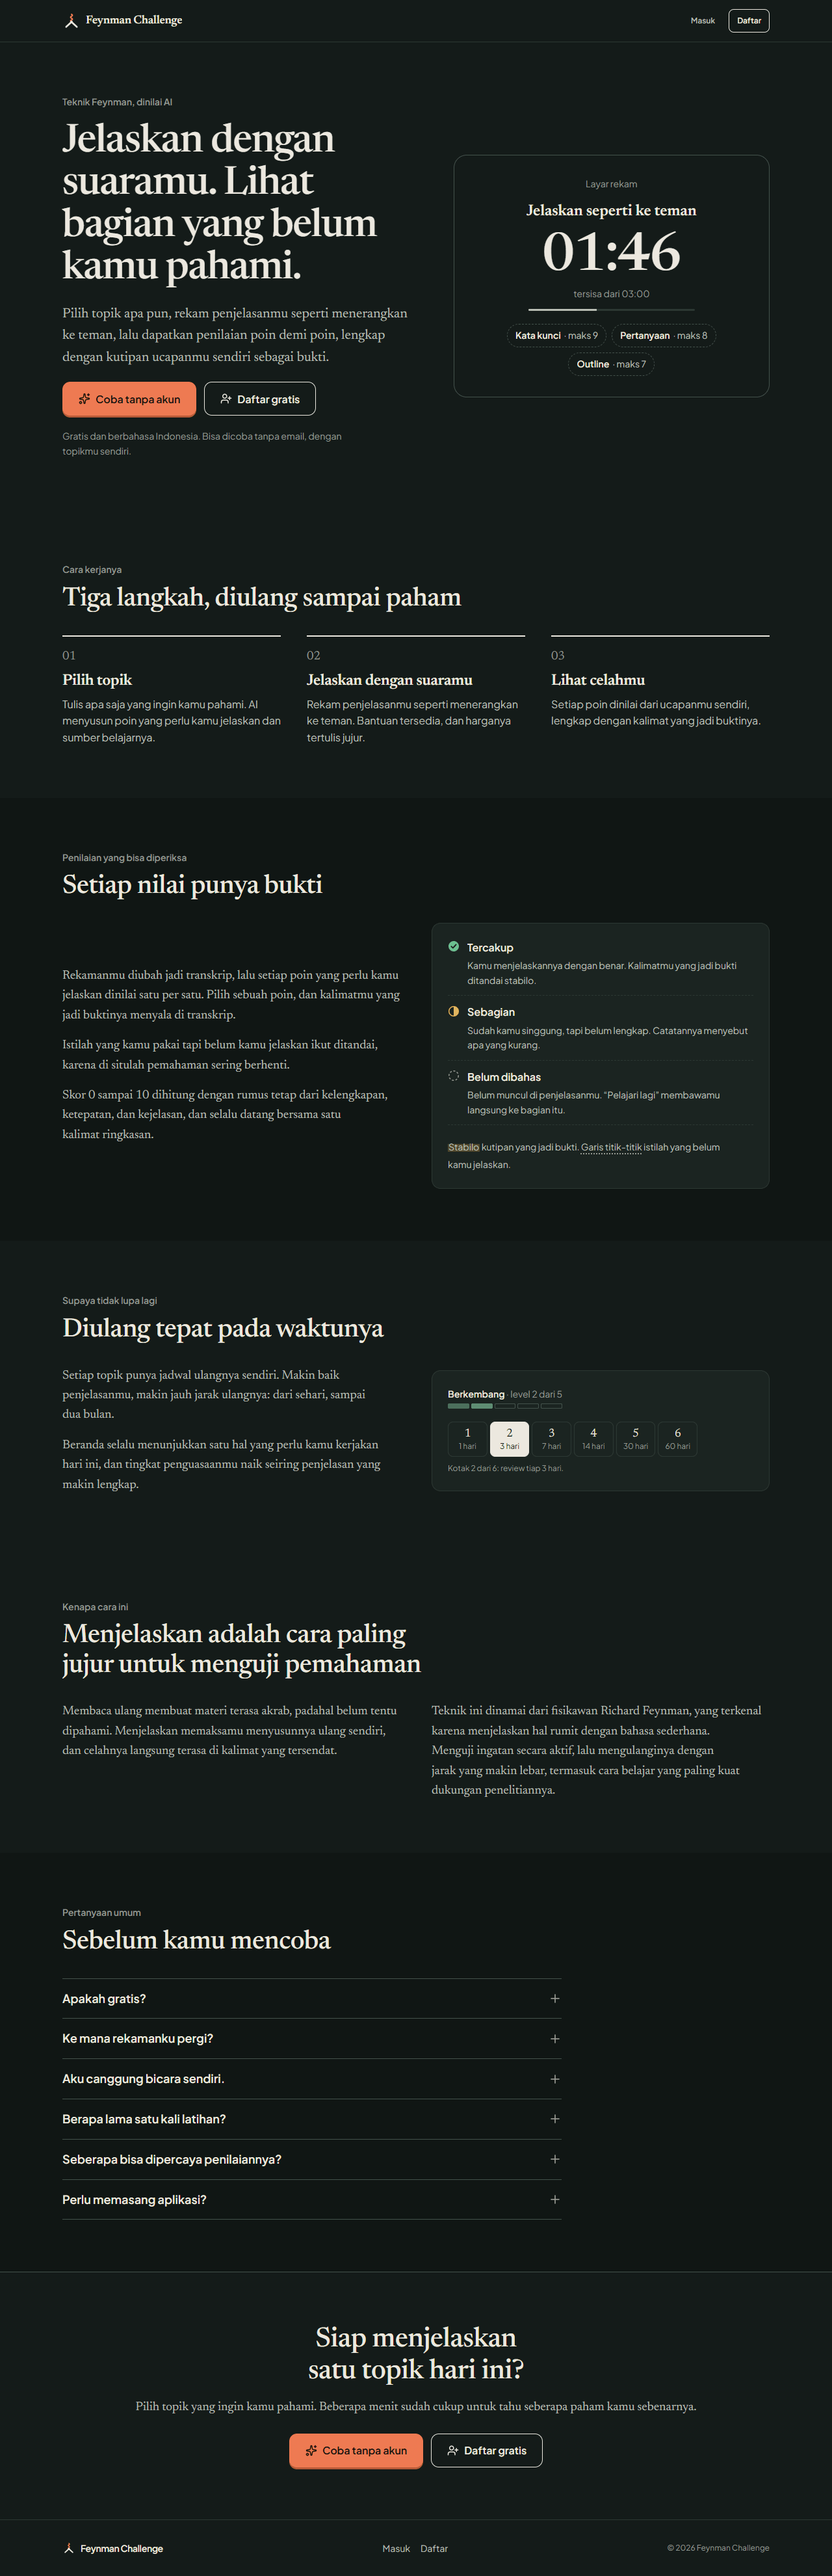
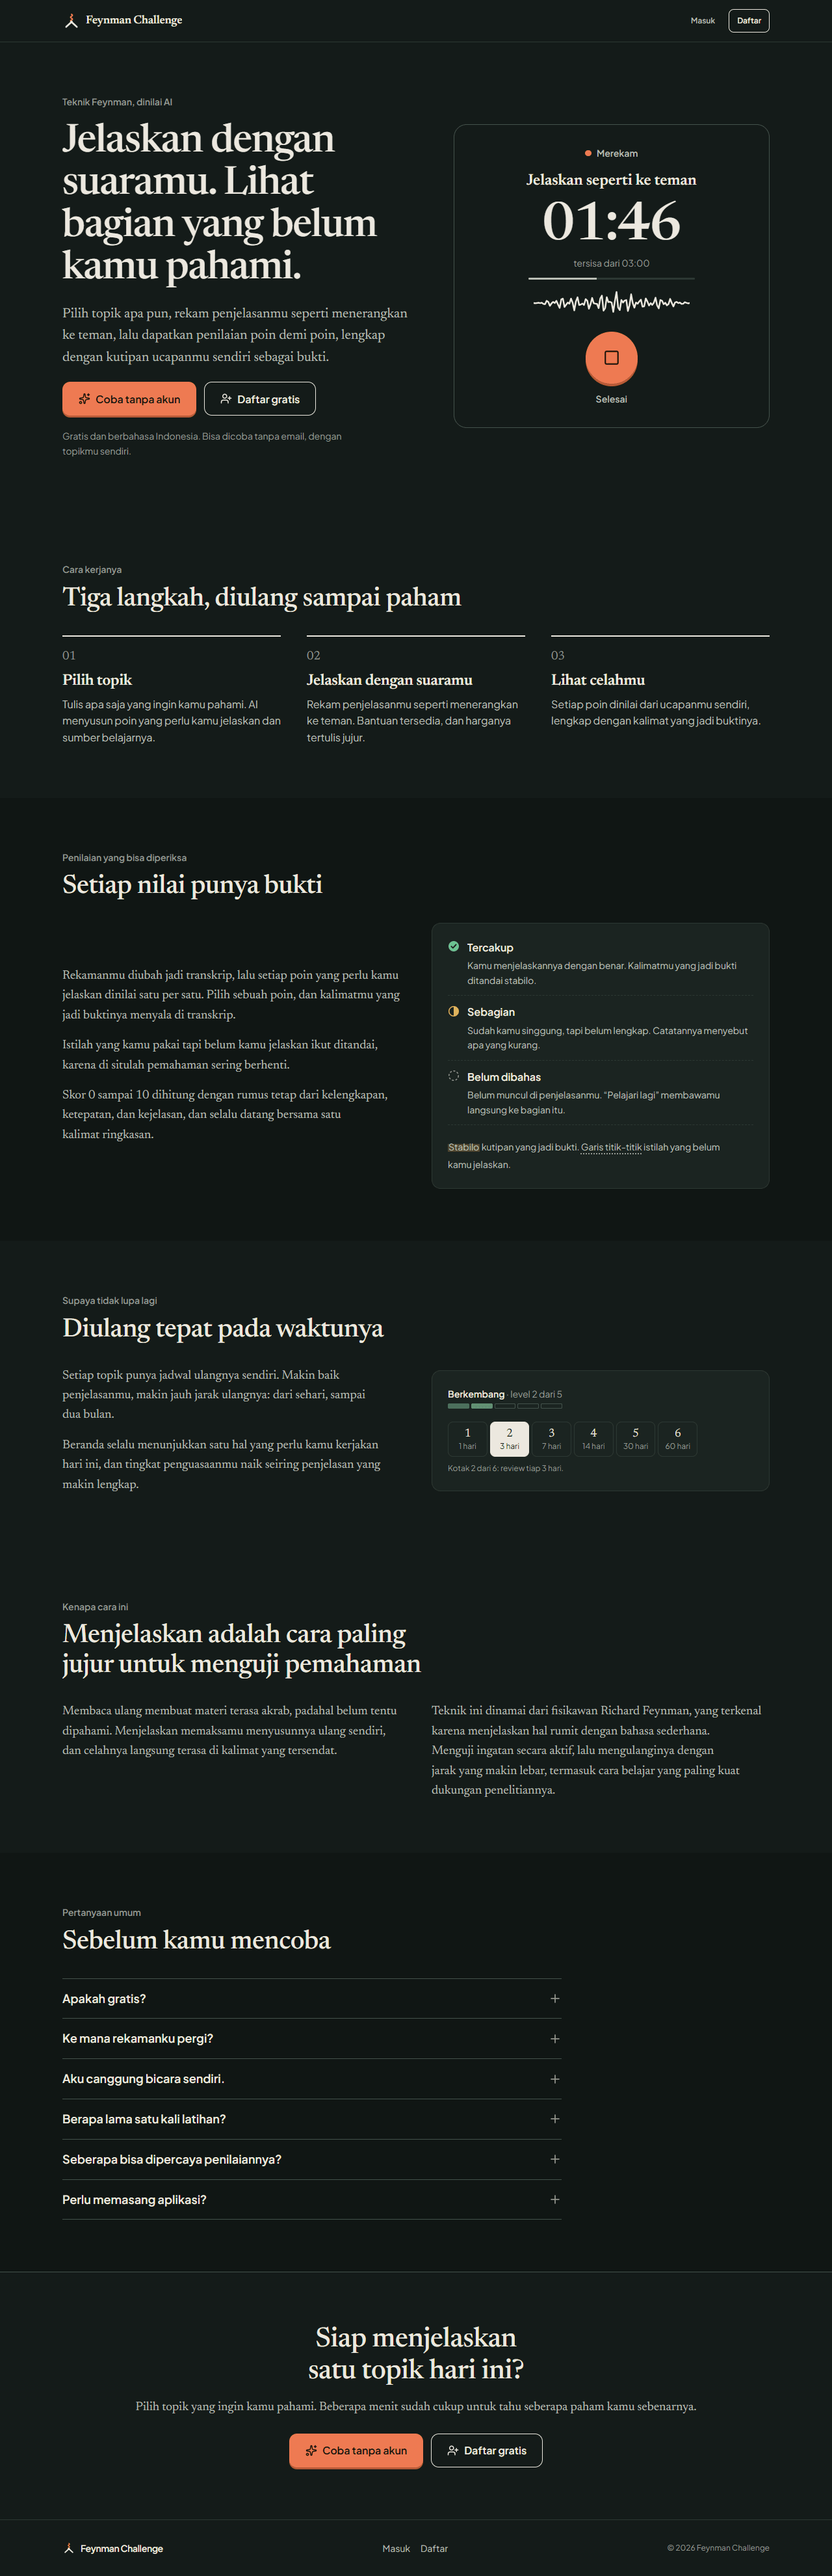
fix: make the landing's stage picture readable at a glance
The hero showed the stage with three hint chips ("maks 9, maks 8,
maks 7") and no record button. A first-time visitor has no context for
score caps, and without the record button the picture never said "you
talk here".

It now shows a recording in progress, built from the stage's own
classes: the recording dot, the clock, a still of the chalk line
(computed once on the server, no client script), and the record button
as a picture that does not pretend to be pressable. Hint pricing is
still explained in "Cara kerjanya".

Verified in both themes by measurement and by OCR of the rendered
board. Lighthouse medians are unchanged: mobile 84, desktop 100.

Changed region(s): [[0.625, 0.0621, 0.8438, 0.1553]]

diff --git a/src/components/marketing/landing.tsx b/src/components/marketing/landing.tsx
@@ -1,12 +1,11 @@
 import type { ReactNode } from "react";
 import Link from "next/link";
-import { LogIn, Plus, UserPlus } from "lucide-react";
+import { LogIn, Plus, Square, UserPlus } from "lucide-react";
 
 import { LeitnerStrip } from "@/components/challenge/leitner-strip";
 import { MasteryMeter } from "@/components/challenge/mastery-meter";
 import { CoverageMark } from "@/components/evaluation/coverage-mark";
 import { BrandMark } from "@/components/layout/brand-mark";
-import { HintChip } from "@/components/recording/hint-chip";
 import { StageTimer } from "@/components/recording/stage-timer";
 import { ButtonLink } from "@/components/ui/button";
 import { Sheet } from "@/components/ui/sheet";
@@ -95,23 +94,52 @@ const FAQ: { question: string; answer: string }[] = [
   },
 ];
 
-/** The recording stage, drawn with the stage's own components and no topic. */
+/**
+ * A still of the chalk line the stage draws from the microphone: a few
+ * syllables of speech, loud in the middle and quiet at the edges. Computed
+ * once on the server, so the browser runs no script for it.
+ */
+const WAVE_PATH = (() => {
+  const width = 240;
+  const mid = 24;
+  const points: string[] = [];
+  for (let i = 0; i <= 96; i++) {
+    const x = (i / 96) * width;
+    const t = i / 96;
+    const envelope = Math.sin(Math.PI * t) * (0.55 + 0.45 * Math.abs(Math.sin(t * 9)));
+    const y = mid + envelope * 18 * Math.sin(i * 1.7) * Math.cos(i * 0.37);
+    points.push(`${i === 0 ? "M" : "L"}${x.toFixed(1)} ${y.toFixed(1)}`);
+  }
+  return points.join(" ");
+})();
+
+/**
+ * The recording stage mid-explanation, drawn with the stage's own classes:
+ * the recording dot, the clock, the chalk line, and the record button. It
+ * has to say "you talk here" at a glance, so the hint chips, which need
+ * context a first-time visitor does not have, are left out.
+ */
 function BoardPreview() {
   return (
     <div
       data-mood="board"
       className="landing-board"
       role="img"
-      aria-label="Layar rekam: papan tulis gelap dengan jam hitung mundur, dan tiga bantuan yang masing-masing menurunkan skor maksimal."
+      aria-label="Layar rekam: papan tulis gelap saat kamu sedang menjelaskan, dengan jam hitung mundur, gelombang suaramu, dan tombol untuk selesai."
     >
-      <p className="landing-board-eyebrow">Layar rekam</p>
+      <p className="stage-status">
+        <span className="record-rec-dot" />
+        Merekam
+      </p>
       <p className="landing-board-title">Jelaskan seperti ke teman</p>
       <StageTimer totalSeconds={STAGE_SECONDS} elapsedSeconds={74} started />
-      <div className="landing-board-hints">
-        <HintChip label="Kata kunci" cap={9} revealed={false} />
-        <HintChip label="Pertanyaan" cap={8} revealed={false} />
-        <HintChip label="Outline" cap={7} revealed={false} />
-      </div>
+      <svg className="landing-wave" viewBox="0 0 240 48" preserveAspectRatio="none">
+        <path d={WAVE_PATH} />
+      </svg>
+      <span className="rec-button landing-rec" data-live>
+        <Square size={26} />
+      </span>
+      <p className="rec-button-label">Selesai</p>
     </div>
   );
 }

diff --git a/src/styles/landing.css b/src/styles/landing.css
@@ -108,23 +108,33 @@
   text-align: center;
 }
 
-.landing-board-eyebrow {
-  font-size: var(--text-sm);
-  color: var(--ink-3);
-}
-
 .landing-board-title {
   font-family: var(--font-serif);
   font-size: var(--text-h2);
   font-weight: var(--weight-semibold);
 }
 
-.landing-board-hints {
-  display: flex;
-  flex-wrap: wrap;
-  justify-content: center;
-  gap: var(--space-2);
-  padding-top: var(--space-2);
+/* A still of the stage's chalk line: the same stroke the live waveform
+   draws (ink, 2.5 px, round). */
+.landing-wave {
+  width: min(15rem, 80%);
+  height: 3rem;
+  fill: none;
+  stroke: var(--ink);
+  stroke-width: 2.5;
+  stroke-linecap: round;
+  stroke-linejoin: round;
+  vector-effect: non-scaling-stroke;
+}
+
+/* The stage's record button, as a picture: nothing to press here. */
+.landing-rec.rec-button {
+  margin-top: var(--space-2);
+  cursor: default;
+}
+
+.landing-rec.rec-button:hover {
+  background: var(--accent);
 }
 
 /* --- Sections --- */

diff --git a/docs/design/DESIGN.md b/docs/design/DESIGN.md
@@ -207,7 +207,7 @@ Kata untuk skor (ringkasan satu frasa, selalu bersama angka): 0–3 "Baru mulai"
 
 ## 11. Layar kunci
 
-- **Landing publik** (V.8, halaman produk): bilah atas (logo, Masuk, Daftar); hero terbelah dengan janji, "Coba tanpa akun" sebagai aksi utama, dan papan tulis yang dirender dengan komponen panggung sendiri; cara kerja sebagai tiga kolom bernomor di bawah garis tinta (bukan kartu, §12); **cara membaca hasil** (tiga jenis penilaian dengan tanda coverage-nya, stabilo, garis titik-titik, dan cara skor dihitung) tanpa contoh apa pun; jadwal ulang; alasan metodenya; pertanyaan umum; lalu ajakan penutup di atas papan tulis. Aksi utama muncul dua kali, di atas dan di penutup, karena itu aksi yang sama di halaman panjang, bukan dua aksi utama. **Tidak ada contoh topik** (V.9): pengunjung bertemu produk lewat topiknya sendiri, jadi "Coba tanpa akun" langsung membuka "Tantangan baru". Gambaran produk hanya berupa komponen aslinya tanpa isi, dan tidak ada klaim fitur yang belum ada.
+- **Landing publik** (V.8, halaman produk): bilah atas (logo, Masuk, Daftar); hero terbelah dengan janji, "Coba tanpa akun" sebagai aksi utama, dan papan tulis yang dirender dengan kelas panggung sendiri, dalam keadaan sedang merekam (titik merekam, jam, garis kapur, tombol rekam) supaya langsung terbaca "di sini kamu bicara"; chip bantuan sengaja tidak ditampilkan karena butuh konteks; cara kerja sebagai tiga kolom bernomor di bawah garis tinta (bukan kartu, §12); **cara membaca hasil** (tiga jenis penilaian dengan tanda coverage-nya, stabilo, garis titik-titik, dan cara skor dihitung) tanpa contoh apa pun; jadwal ulang; alasan metodenya; pertanyaan umum; lalu ajakan penutup di atas papan tulis. Aksi utama muncul dua kali, di atas dan di penutup, karena itu aksi yang sama di halaman panjang, bukan dua aksi utama. **Tidak ada contoh topik** (V.9): pengunjung bertemu produk lewat topiknya sendiri, jadi "Coba tanpa akun" langsung membuka "Tantangan baru". Gambaran produk hanya berupa komponen aslinya tanpa isi, dan tidak ada klaim fitur yang belum ada.
 - **Onboarding pertama kali**: satu ilustrasi kecil, tiga langkah sebagai daftar bernomor (pelajari, jelaskan, lihat celahmu), lalu langsung buat tantangan pertama. Tombolnya harus terlihat tanpa scroll di ponsel umum.
 - **Meja Belajar** (dashboard): kartu "Hari ini" dengan satu aksi, WeekStrip, lalu daftar tantangan seperti indeks buku: judul, meter penguasaan, review berikutnya.
 - **Catatan belajar**: lembar kertas. Kepala halaman hanya memuat judul, meter penguasaan, tenggat, dan review berikutnya. Kotak Leitner, ubah tenggat, istirahatkan, tandai selesai, ubah judul, dan hapus dilipat di panel "Kelola tantangan". Outline bernomor di margin dengan tren coverage, sumber seperti daftar pustaka, catatan dalam serif. Tombol "Jelaskan sekarang" menempel di bawah pada ponsel.

diff --git a/CHANGELOG.md b/CHANGELOG.md
@@ -8,6 +8,7 @@ All notable changes to Feynman Challenge. The format follows [Keep a Changelog](
 
 - **No example topic anywhere a visitor looks.** The owner wants people to meet the product on their own topic. The landing keeps the recording stage as its picture of the product, drawn from the stage's own components with no content in it, and the interactive evidence demo gives way to an explanation of how a result reads: the three verdicts, the highlighter, the dotted underline for unexplained terms, and how the score is computed.
 - **"Coba tanpa akun" opens "Tantangan baru"** after the anonymous sign-in, instead of a prepared challenge. The seeding endpoint (`/api/demo/seed`), its code and its schema are removed rather than left idle: an unused endpoint that writes to the database is attack surface for nothing.
+- The hero's stage now shows a recording in progress: the recording dot, the clock, the chalk line and the record button. The three hint chips it showed before ("maks 9, maks 8, maks 7") needed context a first-time visitor does not have, and without the record button the picture never said "you talk here".
 - Trying the demo now makes real AI calls, bounded by the anonymous quota and the app-wide daily ceiling.
 - The sample data stays, but only for the dev screen gallery and the screenshots made from it.
 - Lighthouse on the landing, median of three runs: mobile 84 (was 74 with the interactive demo), desktop 100, accessibility 100.
